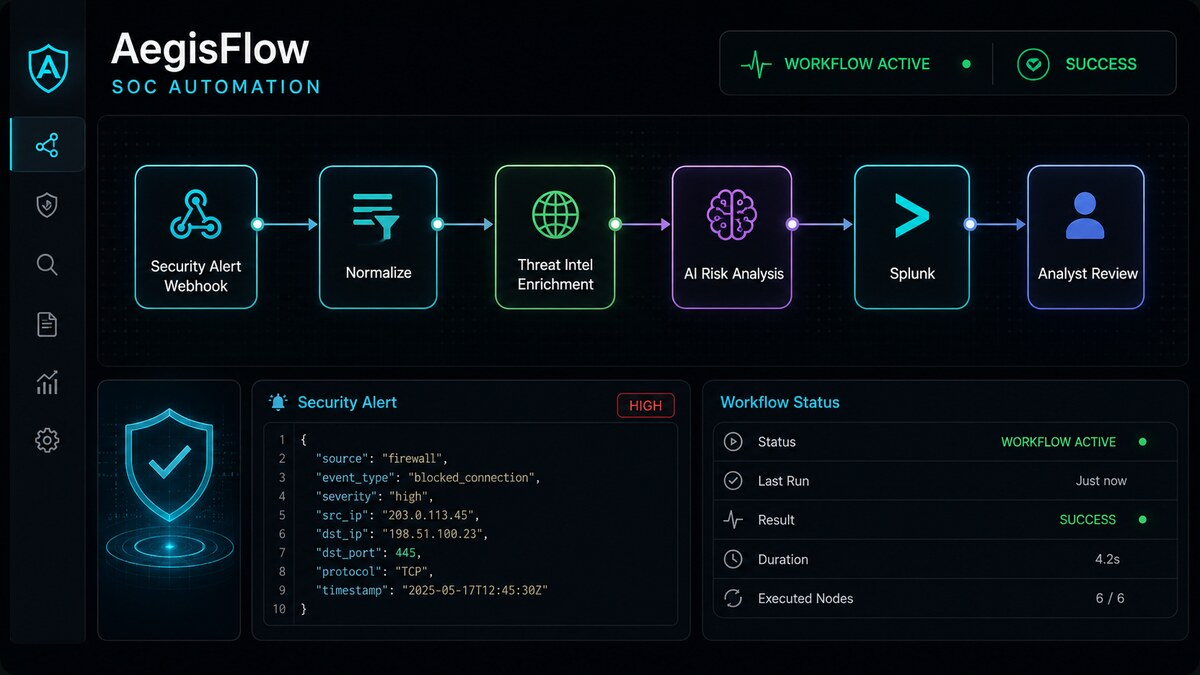
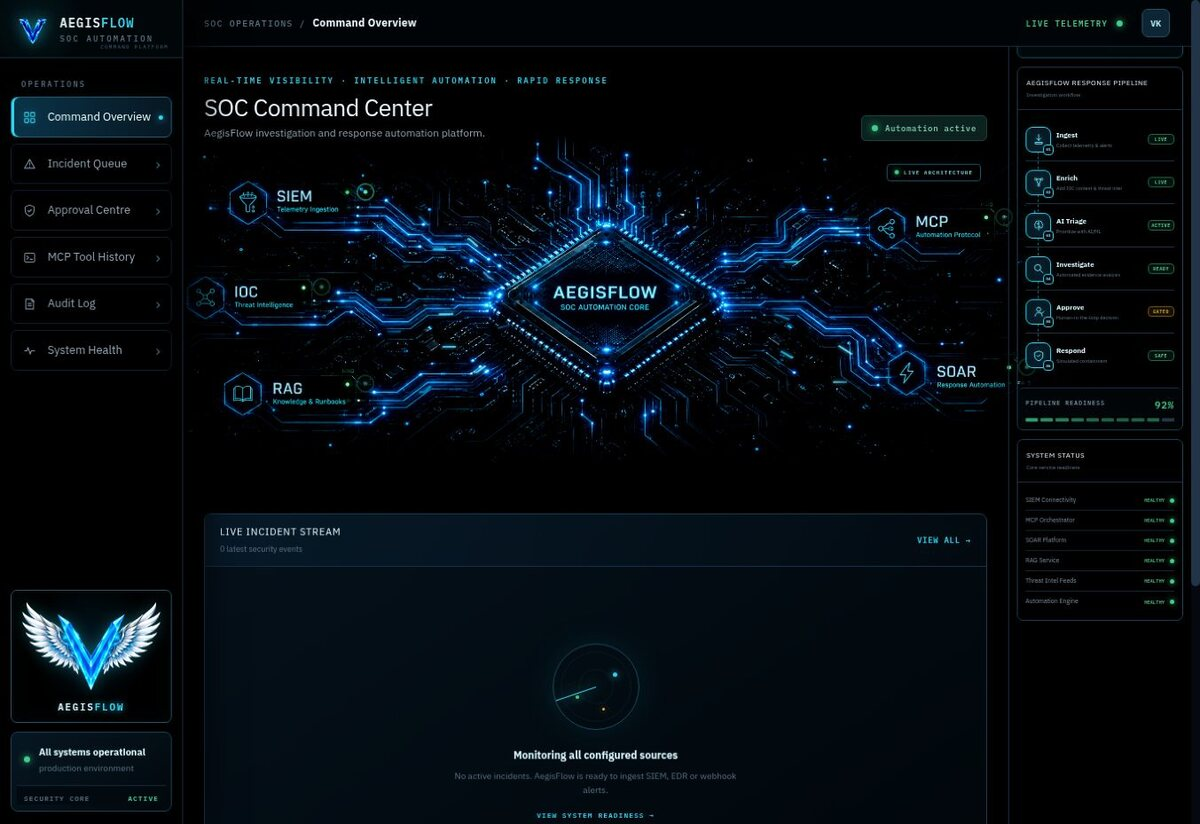
Feature live AegisFlow in security projects

diff --git a/lib/data.ts b/lib/data.ts
@@ -255,11 +255,13 @@ export const projects: Project[] = [
   },
   {
     id: "aegis-flow",
-    title: "AegisFlow — AI-Assisted SOC Automation",
+    title: "AegisFlow — SOC Investigation & Response Automation",
     description:
-      "Designed an n8n-driven SOC workflow that receives security alerts, enriches and scores them, uses AI for analyst-ready context, and forwards structured events to the investigation workflow.",
-    tools: ["n8n", "Webhooks", "Splunk", "Groq API", "REST APIs", "Security Automation"],
+      "Built and deployed a full-stack SOC automation platform for alert ingestion, threat-intelligence enrichment, AI triage, RAG-assisted investigation, MCP security tools, human approval, and simulated response.",
+    tools: ["React", "TypeScript", "FastAPI", "n8n", "Groq API", "MCP", "RAG"],
     image: "/projects/aegisflow-soc-automation.jpg",
+    github: "https://github.com/vasanth-void-0x/AegisFlow-SOC-Automation",
+    demo: "https://aegisflow-soc-automation.vercel.app/",
     caseStudy: {
       category: "SOAR / SECURITY AUTOMATION",
       objective: "Reduce repetitive Tier-1 triage work by connecting alert intake, normalization, enrichment, AI-assisted summarization, and analyst handoff.",

diff --git a/components/Projects.tsx b/components/Projects.tsx
@@ -134,11 +134,11 @@ const categoryById: Record<string, Exclude<ProjectFilter, "All">> = {
 
 const currentById = Object.fromEntries(projects.map((project) => [project.id, project]));
 const allProjects: Project[] = [
+  currentById["aegis-flow"],
   ...additionalProjects.filter((project) => project.id === "ragexploit"),
   ...additionalProjects.filter((project) => project.id === "ai-red-team-agent"),
   currentById["agent-shield"],
   currentById.itrap,
-  currentById["aegis-flow"],
   currentById["dfir-copilot"],
   currentById["chain-guard"],
   ...additionalProjects.filter((project) => project.id === "soc-alert-escalation"),
